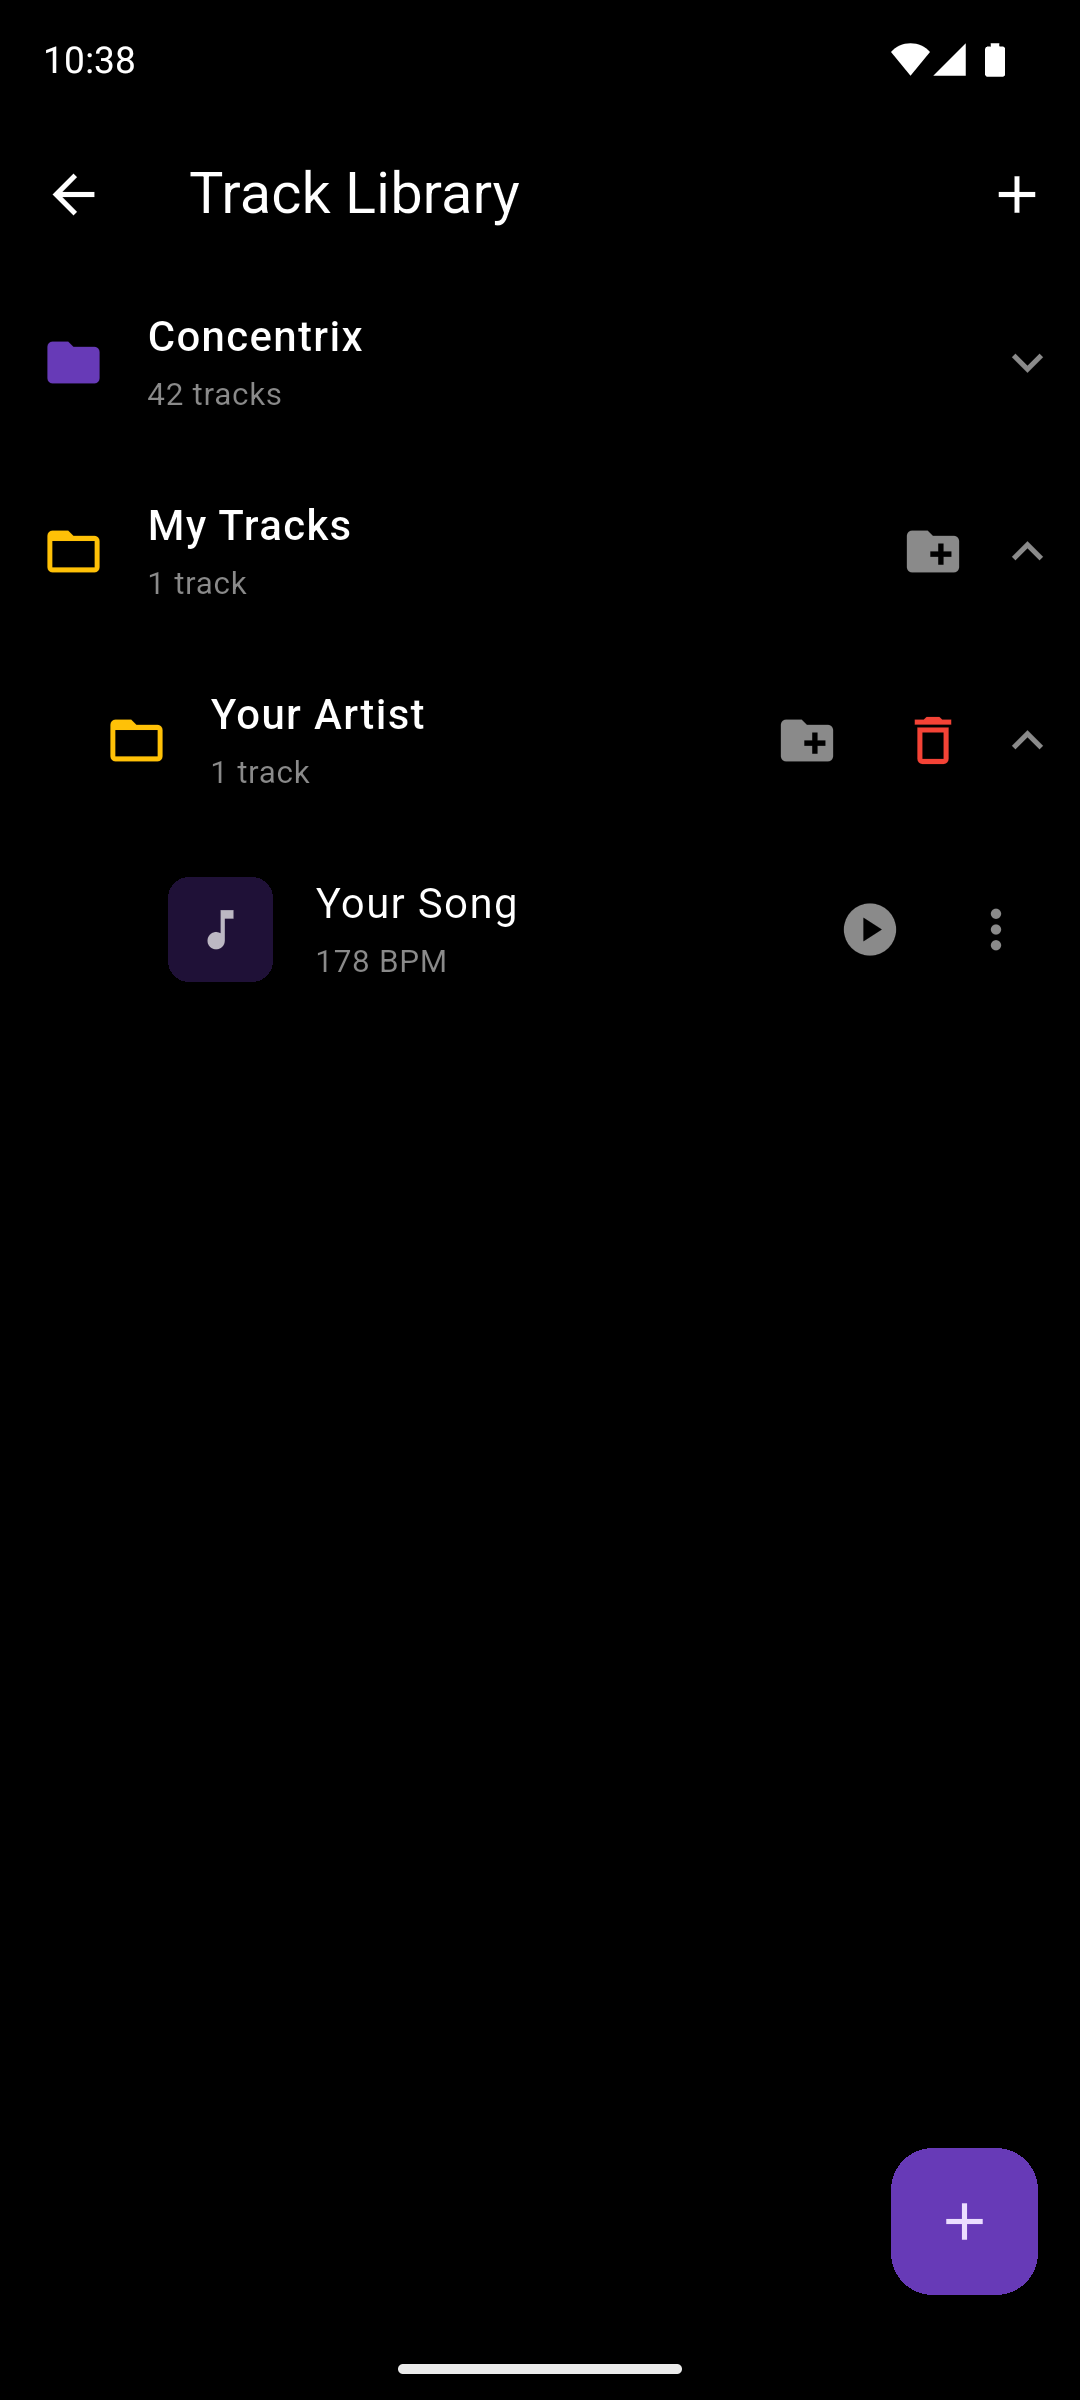
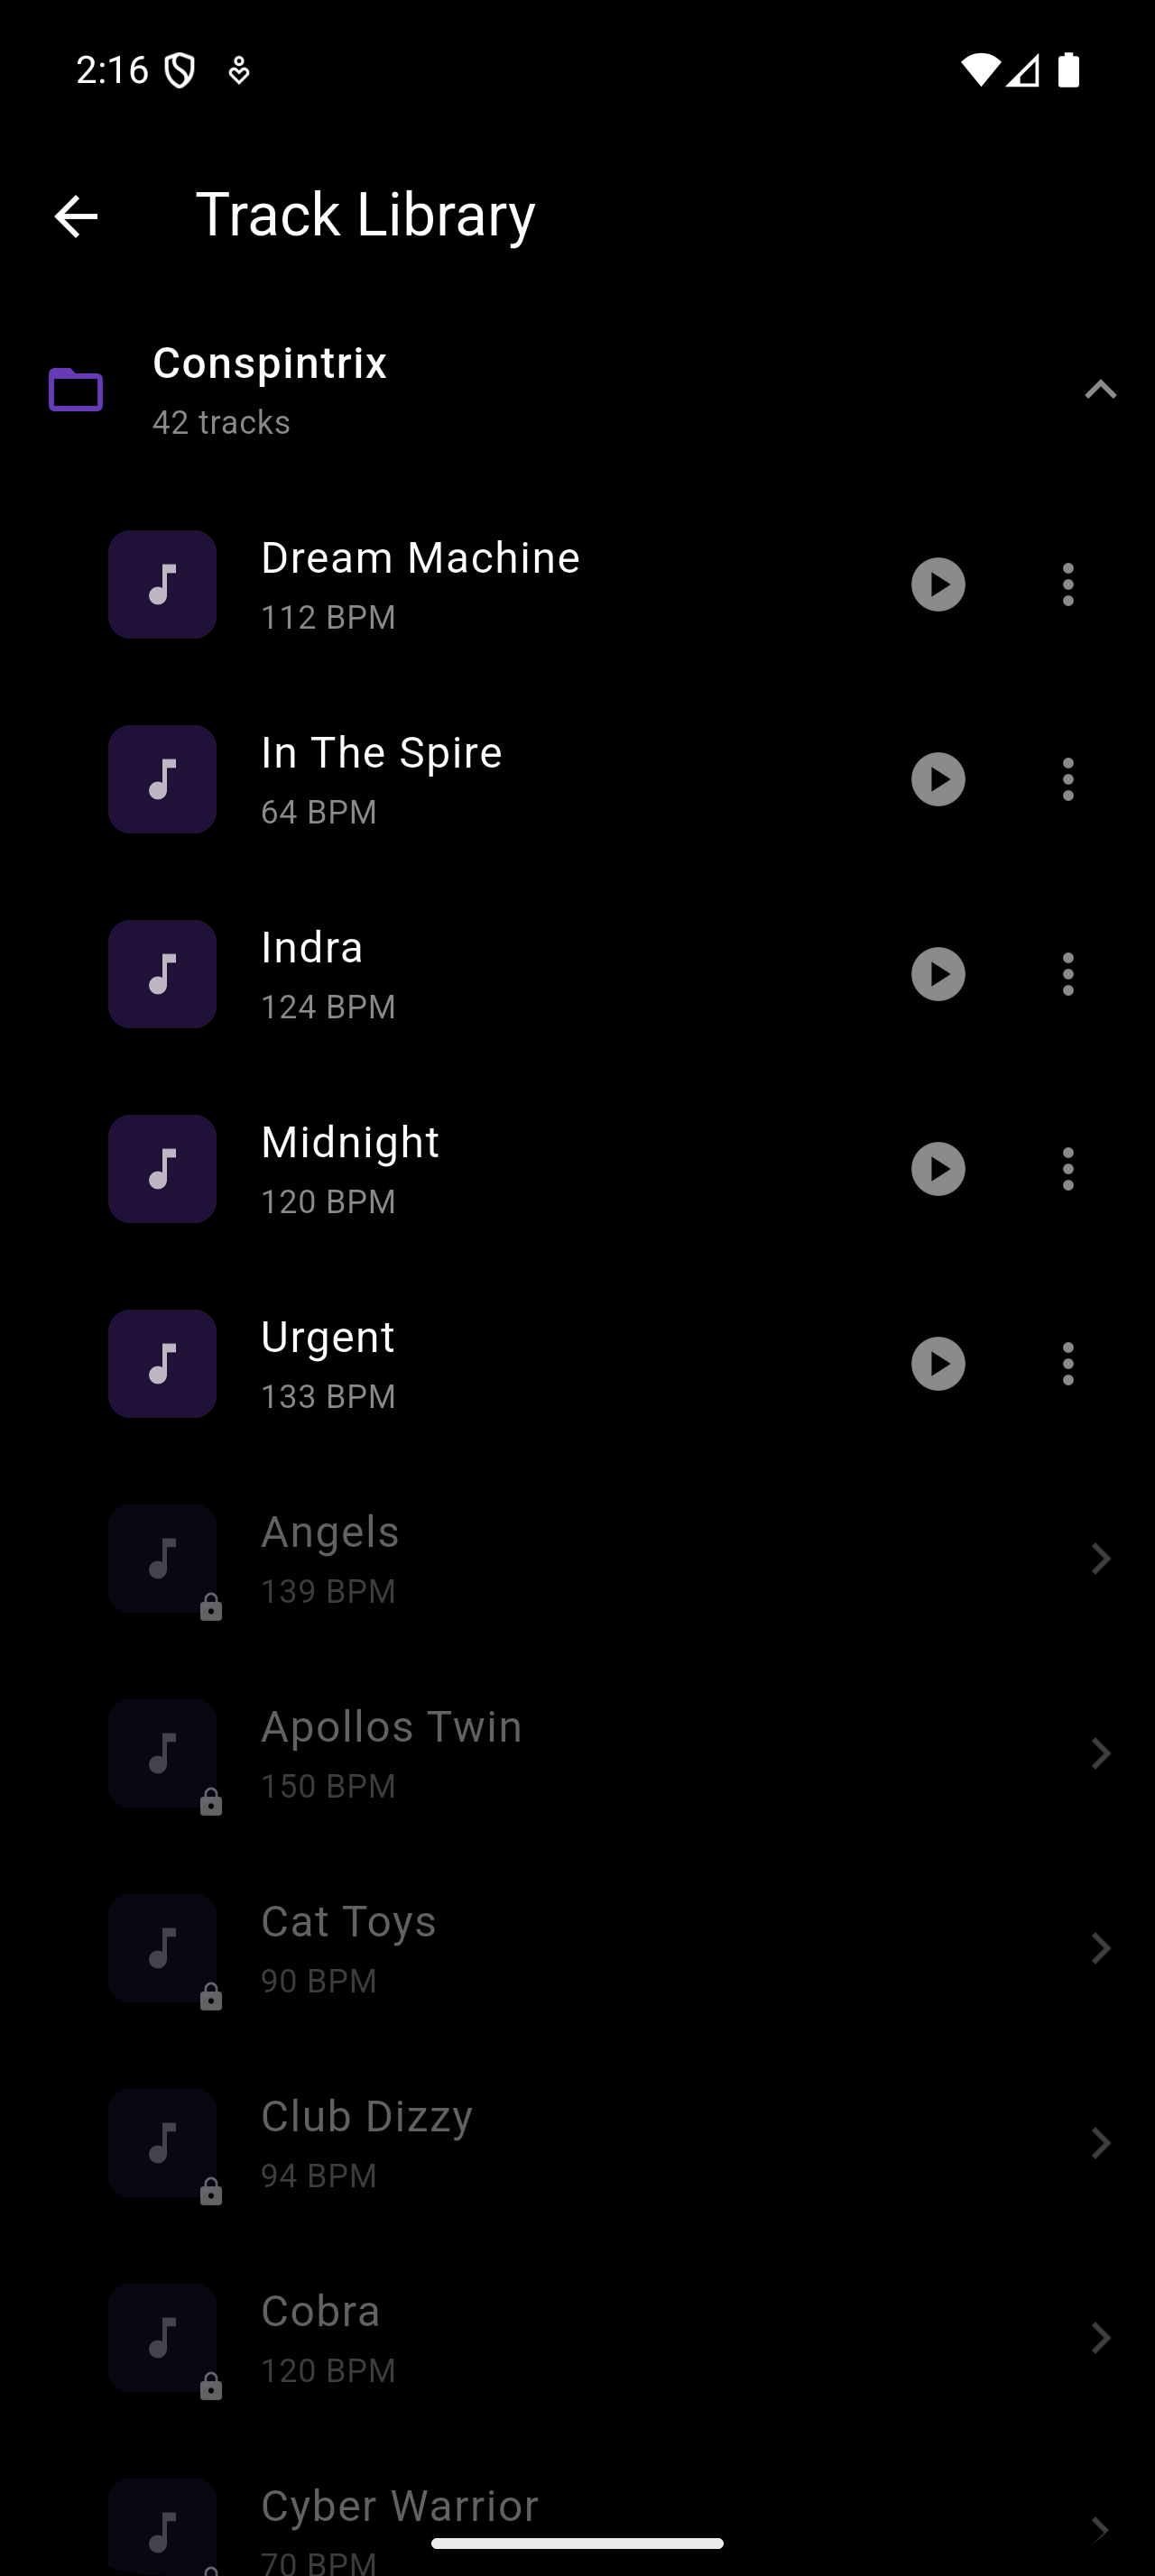
Updated branding

diff --git a/conspintrix/index.html b/conspintrix/index.html
@@ -5,26 +5,26 @@
   <meta name="viewport" content="width=device-width, initial-scale=1.0" />
 
   <!-- ── Primary Meta ── -->
-  <title>Concentrix | butterssoft</title>
-  <meta name="description" content="Concentrix is a music-driven puzzle game where every move is in sync with the beat. Spin concentric rings to match color patterns before the track ends — available on Android, iOS coming soon." />
-  <meta name="keywords" content="Concentrix, butterssoft, music puzzle game, rhythm game, mobile game, Android, iOS" />
+  <title>Conspintrix | butterssoft</title>
+  <meta name="description" content="Conspintrix is a music-driven puzzle game where every move is in sync with the beat. Spin concentric rings to match color patterns before the track ends — available on Android, iOS coming soon." />
+  <meta name="keywords" content="Conspintrix, butterssoft, music puzzle game, rhythm game, mobile game, Android, iOS" />
   <meta name="author" content="butterssoft" />
-  <link rel="canonical" href="https://butterssoft.com/concentrix/" />
+  <link rel="canonical" href="https://butterssoft.com/conspintrix/" />
 
   <!-- ── Open Graph ── -->
   <meta property="og:type" content="website" />
-  <meta property="og:url" content="https://butterssoft.com/concentrix/" />
-  <meta property="og:title" content="Concentrix | butterssoft" />
-  <meta property="og:description" content="Concentrix is a music-driven puzzle game where every move is in sync with the beat. Spin concentric rings to match color patterns before the track ends — available on Android, iOS coming soon." />
-  <meta property="og:image" content="https://butterssoft.com/assets/images/concentrix.png" />
+  <meta property="og:url" content="https://butterssoft.com/conspintrix/" />
+  <meta property="og:title" content="Conspintrix | butterssoft" />
+  <meta property="og:description" content="Conspintrix is a music-driven puzzle game where every move is in sync with the beat. Spin concentric rings to match color patterns before the track ends — available on Android, iOS coming soon." />
+  <meta property="og:image" content="https://butterssoft.com/assets/images/conspintrix.png" />
   <meta property="og:site_name" content="butterssoft" />
   <meta property="og:locale" content="en_US" />
 
   <!-- ── Twitter Card ── -->
   <meta name="twitter:card" content="summary_large_image" />
-  <meta name="twitter:title" content="Concentrix | butterssoft" />
-  <meta name="twitter:description" content="Concentrix is a music-driven puzzle game where every move is in sync with the beat. Spin concentric rings to match color patterns before the track ends — available on Android, iOS coming soon." />
-  <meta name="twitter:image" content="https://butterssoft.com/assets/images/concentrix.png" />
+  <meta name="twitter:title" content="Conspintrix | butterssoft" />
+  <meta name="twitter:description" content="Conspintrix is a music-driven puzzle game where every move is in sync with the beat. Spin concentric rings to match color patterns before the track ends — available on Android, iOS coming soon." />
+  <meta name="twitter:image" content="https://butterssoft.com/assets/images/conspintrix.png" />
 
   <!-- ── Favicon ── -->
   <link rel="icon" type="image/png" href="../assets/images/butterssoft.png" />
@@ -42,13 +42,13 @@
   {
     "@context": "https://schema.org",
     "@type": "VideoGame",
-    "name": "Concentrix",
-    "description": "Concentrix is a music-driven puzzle game where every move is in sync with the beat. Spin concentric rings to match color patterns before the track ends; the challenge adapts to whatever music you choose.",
+    "name": "Conspintrix",
+    "description": "Conspintrix is a music-driven puzzle game where every move is in sync with the beat. Spin concentric rings to match color patterns before the track ends; the challenge adapts to whatever music you choose.",
     "publisher": { "@type": "Organization", "name": "butterssoft", "url": "https://butterssoft.com" },
     "operatingSystem": ["Android"],
     "applicationCategory": "Game",
-    "image": "https://butterssoft.com/assets/images/concentrix.png",
-    "url": "https://butterssoft.com/concentrix/"
+    "image": "https://butterssoft.com/assets/images/conspintrix.png",
+    "url": "https://butterssoft.com/conspintrix/"
   }
   </script>
 </head>
@@ -74,14 +74,14 @@
     <section class="game-page-hero" aria-labelledby="game-page-title">
       <div class="hero-video-bg" aria-hidden="true">
         <video class="hero-video" autoplay muted loop playsinline>
-          <source src="../assets/videos/concentrix-bg.mp4" type="video/mp4">
+          <source src="../assets/videos/conspintrix-bg.mp4" type="video/mp4">
         </video>
         <div class="hero-video-overlay"></div>
       </div>
       <div class="container game-page-hero-inner">
         <p class="breadcrumb"><a href="/">butterssoft</a> / Games</p>
-        <img src="../assets/images/concentrix.png" alt="Concentrix app icon" class="game-page-icon" />
-        <h1 style="font-family:audiowide" id="game-page-title">CONCENTRIX</h1>
+        <img src="../assets/images/conspintrix.png" alt="Conspintrix app icon" class="game-page-icon" />
+        <h1 style="font-family:audiowide" id="game-page-title">CONSPINTRIX</h1>
         <p class="game-page-tagline">A music-driven puzzle game where every move is in sync with the beat.</p>
         <div class="game-badges">
           <span class="badge badge-platform">Android</span>
@@ -101,7 +101,7 @@
         <div class="video-wrapper">
           <iframe
             src="https://www.youtube.com/embed/omtn6ThmDZ8"
-            title="Concentrix gameplay video"
+            title="Conspintrix gameplay video"
             allow="accelerometer; autoplay; clipboard-write; encrypted-media; gyroscope; picture-in-picture"
             allowfullscreen>
           </iframe>
@@ -114,7 +114,7 @@
       <div class="container">
         <div class="game-about-inner">
           <h2 class="section-title" id="about-heading">About the Game</h2>
-          <p>Concentrix is a music-driven puzzle game where every move is in sync with the beat. Spin concentric rings to match color patterns before the track ends or chase the highest score across every loop.</p>
+          <p>Conspintrix is a music-driven puzzle game where every move is in sync with the beat. Spin concentric rings to match color patterns before the track ends or chase the highest score across every loop.</p>
           <p>The challenge is based on whatever music you choose, making every session feel different. Free to play with no ads, and 5 full tracks across all modes and difficulties. Unlock 35+ tracks and import your own music library with a one-time premium purchase.</p>
 
           <h3 class="modes-heading">Two ways to play</h3>
@@ -138,7 +138,7 @@
     </section>
 
     <!-- ── What Makes It Different ── -->
-    <section class="game-page-section" id="why-concentrix" aria-labelledby="why-heading">
+    <section class="game-page-section" id="why-conspintrix" aria-labelledby="why-heading">
       <div class="container">
         <h2 class="section-title" id="why-heading">What Makes It Different</h2>
         <div class="differentiators-grid">
@@ -163,14 +163,14 @@
       <div class="container">
         <div class="screenshots-header">
           <h2 class="section-title" id="screenshots-heading">Screenshots</h2>
-          <a class="btn btn-sm btn-outline" href="../assets/images/concentrix-press-assets.zip" download>Download Press Assets</a>
+          <a class="btn btn-sm btn-outline" href="../assets/images/conspintrix-press-assets.zip" download>Download Press Assets</a>
         </div>
         <div class="screenshots-grid">
-          <img src="../assets/images/titlescreen.png" alt="Concentrix title screen" />
-          <img src="../assets/images/solvemode.png" alt="Concentrix solve mode gameplay" />
-          <img src="../assets/images/scoremode.png" alt="Concentrix score mode gameplay" />
-          <img src="../assets/images/customtracks.png" alt="Concentrix custom tracks screen" />
-          <img src="../assets/images/tempotap.png" alt="Concentrix tempo tap screen" />
+          <img src="../assets/images/titlescreen.png" alt="Conspintrix title screen" />
+          <img src="../assets/images/solvemode.png" alt="Conspintrix solve mode gameplay" />
+          <img src="../assets/images/scoremode.png" alt="Conspintrix score mode gameplay" />
+          <img src="../assets/images/customtracks.png" alt="Conspintrix custom tracks screen" />
+          <img src="../assets/images/tempotap.png" alt="Conspintrix tempo tap screen" />
         </div>
       </div>
     </section>
@@ -184,15 +184,15 @@
           <h3>Copy-Ready Descriptions</h3>
           <div class="press-desc-block">
             <p class="press-desc-label">Short</p>
-            <blockquote class="press-desc-text">Concentrix is a music-driven puzzle game where every move is in sync with the beat. Spin concentric rings to match color patterns before the track ends; the challenge adapts to whatever music you choose, so every session feels different.</blockquote>
+            <blockquote class="press-desc-text">Conspintrix is a music-driven puzzle game where every move is in sync with the beat. Spin concentric rings to match color patterns before the track ends; the challenge adapts to whatever music you choose, so every session feels different.</blockquote>
           </div>
           <div class="press-desc-block">
             <p class="press-desc-label">Long</p>
-            <blockquote class="press-desc-text">Concentrix is a music-driven puzzle game where every move is in sync with the beat.<br><br>Spin concentric rings to match color patterns before the track ends or chase the highest score across every loop. The challenge is based on whatever music you choose, making every session feel different. Free to play with no ads, and 5 full tracks across all modes and difficulties. Unlock 35+ tracks and import your own music library with a one-time premium purchase.<br><br>Two ways to play: Solve (clear the board as many times as you can before the track finishes) or Score (maximize your points across multiple loops). Three difficulty levels with separate leaderboards, beat-synced animations and haptic feedback, and high score tracking across every track, mode, and difficulty. Simple to pick up, endlessly replayable.</blockquote>
+            <blockquote class="press-desc-text">Conspintrix is a music-driven puzzle game where every move is in sync with the beat.<br><br>Spin concentric rings to match color patterns before the track ends or chase the highest score across every loop. The challenge is based on whatever music you choose, making every session feel different. Free to play with no ads, and 5 full tracks across all modes and difficulties. Unlock 35+ tracks and import your own music library with a one-time premium purchase.<br><br>Two ways to play: Solve (clear the board as many times as you can before the track finishes) or Score (maximize your points across multiple loops). Three difficulty levels with separate leaderboards, beat-synced animations and haptic feedback, and high score tracking across every track, mode, and difficulty. Simple to pick up, endlessly replayable.</blockquote>
           </div>
           <div class="press-desc-block">
             <p class="press-desc-label">About butterssoft</p>
-            <blockquote class="press-desc-text">Formed as a solo indie game developer in Den Haag, Netherlands, butterssoft makes games with unique mechanics or takes an established genre and puts an interesting twist on it. Concentrix is the first release with a few more puzzle based games soon to come, and after that some parody games that aim to make players laugh.</blockquote>
+            <blockquote class="press-desc-text">Formed as a solo indie game developer in Den Haag, Netherlands, butterssoft makes games with unique mechanics or takes an established genre and puts an interesting twist on it. Conspintrix is the first release with a few more puzzle based games soon to come, and after that some parody games that aim to make players laugh.</blockquote>
           </div>
         </div>
 
@@ -204,7 +204,7 @@
               <tbody>
                 <tr>
                   <td>Title</td>
-                  <td>Concentrix</td>
+                  <td>Conspintrix</td>
                 </tr>
                 <tr>
                   <td>Trailer</td>
@@ -236,7 +236,7 @@
                 </tr>
                 <tr>
                   <td>Website</td>
-                  <td><a href="https://butterssoft.com/concentrix/">butterssoft.com/concentrix</a></td>
+                  <td><a href="https://butterssoft.com/conspintrix/">butterssoft.com/conspintrix</a></td>
                 </tr>
                 <tr>
                   <td>Languages</td>
@@ -244,11 +244,11 @@
                 </tr>
                 <tr>
                   <td>Privacy Policy</td>
-                  <td><a href="../privacy-concentrix.html">View Privacy Policy</a></td>
+                  <td><a href="../privacy-conspintrix.html">View Privacy Policy</a></td>
                 </tr>
                 <tr>
                   <td>Terms of Service</td>
-                  <td><a href="../terms-concentrix.html">View Terms of Service</a></td>
+                  <td><a href="../terms-conspintrix.html">View Terms of Service</a></td>
                 </tr>
               </tbody>
             </table>
@@ -261,8 +261,8 @@
               <p>We aim to respond within 2 business days.</p>
             </div>
             <div class="press-actions">
-              <a class="btn" href="mailto:[email redacted]?subject=Press%20Inquiry%20%E2%80%94%20Concentrix">Email Press Contact</a>
-              <a class="btn btn-outline" href="mailto:[email redacted]?subject=Press%20Asset%20Request%20%E2%80%94%20Concentrix">Request Press Assets</a>
+              <a class="btn" href="mailto:[email redacted]?subject=Press%20Inquiry%20%E2%80%94%20Conspintrix">Email Press Contact</a>
+              <a class="btn btn-outline" href="mailto:[email redacted]?subject=Press%20Asset%20Request%20%E2%80%94%20Conspintrix">Request Press Assets</a>
             </div>
           </div>
 
@@ -279,8 +279,8 @@
         <span>butterssoft</span>
       </a>
       <nav class="footer-legal" aria-label="Legal links">
-        <a href="../privacy-concentrix.html">Privacy Policy</a>
-        <a href="../terms-concentrix.html">Terms of Service</a>
+        <a href="../privacy-conspintrix.html">Privacy Policy</a>
+        <a href="../terms-conspintrix.html">Terms of Service</a>
       </nav>
       <span class="footer-copy">&copy; <span id="year"></span> butterssoft. All rights reserved.</span>
     </div>

diff --git a/index.html b/index.html
@@ -6,8 +6,8 @@
 
   <!-- ── Primary Meta ── -->
   <title>butterssoft | Indie Mobile Game Studio</title>
-  <meta name="description" content="butterssoft is an indie game studio crafting polished mobile games. Check out Zerosion and Concentrix — available soon on iOS and Android." />
-  <meta name="keywords" content="butterssoft, indie game studio, mobile games, Zerosion, Concentrix, iOS games, Android games" />
+  <meta name="description" content="butterssoft is an indie game studio crafting polished mobile games. Check out Zerosion and Conspintrix — available soon on iOS and Android." />
+  <meta name="keywords" content="butterssoft, indie game studio, mobile games, Zerosion, Conspintrix, iOS games, Android games" />
   <meta name="author" content="butterssoft" />
   <link rel="canonical" href="https://butterssoft.com/" />
 
@@ -15,7 +15,7 @@
   <meta property="og:type" content="website" />
   <meta property="og:url" content="https://butterssoft.com/" />
   <meta property="og:title" content="butterssoft | Indie Mobile Game Studio" />
-  <meta property="og:description" content="butterssoft is an indie game studio crafting polished mobile games. Check out Zerosion and Concentrix — available soon on iOS and Android." />
+  <meta property="og:description" content="butterssoft is an indie game studio crafting polished mobile games. Check out Zerosion and Conspintrix — available soon on iOS and Android." />
   <meta property="og:image" content="https://butterssoft.com/assets/images/butterssoft.png" />
   <meta property="og:site_name" content="butterssoft" />
   <meta property="og:locale" content="en_US" />
@@ -23,7 +23,7 @@
   <!-- ── Twitter Card ── -->
   <meta name="twitter:card" content="summary_large_image" />
   <meta name="twitter:title" content="butterssoft | Indie Mobile Game Studio" />
-  <meta name="twitter:description" content="butterssoft is an indie game studio crafting polished mobile games. Check out Zerosion and Concentrix — available soon on iOS and Android." />
+  <meta name="twitter:description" content="butterssoft is an indie game studio crafting polished mobile games. Check out Zerosion and Conspintrix — available soon on iOS and Android." />
   <meta name="twitter:image" content="https://butterssoft.com/assets/images/butterssoft.png" />
 
   <!-- ── Favicon ── -->
@@ -65,12 +65,12 @@
       },
       {
         "@type": "VideoGame",
-        "name": "Concentrix",
+        "name": "Conspintrix",
         "description": "A rhythm based mobile game by butterssoft.",
         "publisher": { "@type": "Organization", "name": "butterssoft" },
         "operatingSystem": ["iOS", "Android"],
         "applicationCategory": "Game",
-        "image": "https://butterssoft.com/assets/images/concentrix.png"
+        "image": "https://butterssoft.com/assets/images/conspintrix.png"
       }
     ]
   }
@@ -111,12 +111,12 @@
           <h3 class="subsection-label">Available Soon</h3>
           <div class="games-grid">
 
-            <article class="game-card" aria-label="Concentrix">
+            <article class="game-card" aria-label="Conspintrix">
               <div class="game-card-img-wrap game-icon-wrap">
-                <img src="assets/images/concentrix.png" alt="Concentrix app icon" class="game-icon" />
+                <img src="assets/images/conspintrix.png" alt="Conspintrix app icon" class="game-icon" />
               </div>
               <div class="game-card-body">
-                <h4 class="game-title">Concentrix</h4>
+                <h4 class="game-title">Conspintrix</h4>
                 <p class="game-desc">Now available on Android. iOS coming soon.</p>
                 <div class="game-badges">
                   <span class="badge badge-platform">Android</span>
@@ -124,7 +124,7 @@
                 </div>
                 <div class="game-links">
                   <a class="btn btn-sm" href="https://play.google.com/store/apps/details?id=com.butterssoft.concentrix" target="_blank" rel="noopener">Google Play</a>
-                  <a class="btn btn-sm btn-outline" href="/concentrix/">Learn More</a>
+                  <a class="btn btn-sm btn-outline" href="/conspintrix/">Learn More</a>
                 </div>
               </div>
             </article>
@@ -194,8 +194,8 @@
       <nav class="footer-legal" aria-label="Legal links">
         <a href="privacy-zerosion.html">Zerosion Privacy</a>
         <a href="terms-zerosion.html">Zerosion Terms</a>
-        <a href="privacy-concentrix.html">Concentrix Privacy</a>
-        <a href="terms-concentrix.html">Concentrix Terms</a>
+        <a href="privacy-conspintrix.html">Conspintrix Privacy</a>
+        <a href="terms-conspintrix.html">Conspintrix Terms</a>
       </nav>
       <span class="footer-copy">&copy; <span id="year"></span> butterssoft. All rights reserved.</span>
     </div>

diff --git a/privacy-conspintrix.html b/privacy-conspintrix.html
@@ -3,10 +3,10 @@
 <head>
   <meta charset="UTF-8" />
   <meta name="viewport" content="width=device-width, initial-scale=1.0" />
-  <title>Privacy Policy – Concentrix | butterssoft</title>
-  <meta name="description" content="Privacy policy for Concentrix by butterssoft." />
+  <title>Privacy Policy – Conspintrix | butterssoft</title>
+  <meta name="description" content="Privacy policy for Conspintrix by butterssoft." />
   <meta name="robots" content="index, follow" />
-  <link rel="canonical" href="https://butterssoft.com/privacy-concentrix.html" />
+  <link rel="canonical" href="https://butterssoft.com/privacy-conspintrix.html" />
   <link rel="icon" type="image/png" href="assets/images/butterssoft.png" />
   <link rel="preconnect" href="https://fonts.googleapis.com" />
   <link rel="preconnect" href="https://fonts.gstatic.com" crossorigin />
@@ -34,8 +34,8 @@
     <div class="legal-hero">
       <div class="container">
         <div class="legal-game-label">
-          <img src="assets/images/concentrix.png" alt="Concentrix icon" class="legal-game-icon" />
-          <span>Concentrix</span>
+          <img src="assets/images/conspintrix.png" alt="Conspintrix icon" class="legal-game-icon" />
+          <span>Conspintrix</span>
         </div>
         <h1 class="legal-title">Privacy Policy</h1>
         <p class="legal-meta">Last updated: <time datetime="2026-06-15">June 15, 2026</time></p>
@@ -45,7 +45,7 @@
     <article class="legal-body container">
 
       <section class="legal-section">
-        <p>This privacy policy explains what information Concentrix ("the app") collects, how it is used, and your rights regarding that information. We take your privacy seriously and collect only what is necessary to operate the app's features.</p>
+        <p>This privacy policy explains what information Conspintrix ("the app") collects, how it is used, and your rights regarding that information. We take your privacy seriously and collect only what is necessary to operate the app's features.</p>
       </section>
 
       <section class="legal-section">
@@ -126,8 +126,8 @@
       <nav class="footer-legal" aria-label="Legal links">
         <a href="privacy-zerosion.html">Zerosion Privacy</a>
         <a href="terms-zerosion.html">Zerosion Terms</a>
-        <a href="privacy-concentrix.html">Concentrix Privacy</a>
-        <a href="terms-concentrix.html">Concentrix Terms</a>
+        <a href="privacy-conspintrix.html">Conspintrix Privacy</a>
+        <a href="terms-conspintrix.html">Conspintrix Terms</a>
       </nav>
       <span class="footer-copy">&copy; <span class="year"></span> butterssoft. All rights reserved.</span>
     </div>

diff --git a/terms-conspintrix.html b/terms-conspintrix.html
@@ -3,10 +3,10 @@
 <head>
   <meta charset="UTF-8" />
   <meta name="viewport" content="width=device-width, initial-scale=1.0" />
-  <title>Terms &amp; Conditions – Concentrix | butterssoft</title>
-  <meta name="description" content="Terms and conditions for Concentrix by butterssoft." />
+  <title>Terms &amp; Conditions – Conspintrix | butterssoft</title>
+  <meta name="description" content="Terms and conditions for Conspintrix by butterssoft." />
   <meta name="robots" content="index, follow" />
-  <link rel="canonical" href="https://butterssoft.com/terms-concentrix.html" />
+  <link rel="canonical" href="https://butterssoft.com/terms-conspintrix.html" />
   <link rel="icon" type="image/png" href="assets/images/butterssoft.png" />
   <link rel="preconnect" href="https://fonts.googleapis.com" />
   <link rel="preconnect" href="https://fonts.gstatic.com" crossorigin />
@@ -34,8 +34,8 @@
     <div class="legal-hero">
       <div class="container">
         <div class="legal-game-label">
-          <img src="assets/images/concentrix.png" alt="Concentrix icon" class="legal-game-icon" />
-          <span>Concentrix</span>
+          <img src="assets/images/conspintrix.png" alt="Conspintrix icon" class="legal-game-icon" />
+          <span>Conspintrix</span>
         </div>
         <h1 class="legal-title">Terms &amp; Conditions</h1>
         <p class="legal-meta">Effective: <time datetime="2026-05-05">May 5, 2026</time></p>
@@ -46,7 +46,7 @@
 
       <section class="legal-section">
         <h2>Introduction</h2>
-        <p>These terms and conditions apply to the Concentrix app (hereby referred to as "Application") for mobile devices that was created by butterssoft (hereby referred to as "Service Provider") as a free to use service.</p>
+        <p>These terms and conditions apply to the Conspintrix app (hereby referred to as "Application") for mobile devices that was created by butterssoft (hereby referred to as "Service Provider") as a free to use service.</p>
         <p>Upon downloading or utilizing the Application, you are automatically agreeing to the following terms. It is strongly advised that you thoroughly read and understand these terms prior to using the Application.</p>
       </section>
 
@@ -118,8 +118,8 @@
       <nav class="footer-legal" aria-label="Legal links">
         <a href="privacy-zerosion.html">Zerosion Privacy</a>
         <a href="terms-zerosion.html">Zerosion Terms</a>
-        <a href="privacy-concentrix.html">Concentrix Privacy</a>
-        <a href="terms-concentrix.html">Concentrix Terms</a>
+        <a href="privacy-conspintrix.html">Conspintrix Privacy</a>
+        <a href="terms-conspintrix.html">Conspintrix Terms</a>
       </nav>
       <span class="footer-copy">&copy; <span class="year"></span> butterssoft. All rights reserved.</span>
     </div>

diff --git a/privacy-zerosion.html b/privacy-zerosion.html
@@ -134,8 +134,8 @@
       <nav class="footer-legal" aria-label="Legal links">
         <a href="privacy-zerosion.html">Zerosion Privacy</a>
         <a href="terms-zerosion.html">Zerosion Terms</a>
-        <a href="privacy-concentrix.html">Concentrix Privacy</a>
-        <a href="terms-concentrix.html">Concentrix Terms</a>
+        <a href="privacy-conspintrix.html">Conspintrix Privacy</a>
+        <a href="terms-conspintrix.html">Conspintrix Terms</a>
       </nav>
       <span class="footer-copy">&copy; <span class="year"></span> butterssoft. All rights reserved.</span>
     </div>

diff --git a/terms-zerosion.html b/terms-zerosion.html
@@ -119,8 +119,8 @@
       <nav class="footer-legal" aria-label="Legal links">
         <a href="privacy-zerosion.html">Zerosion Privacy</a>
         <a href="terms-zerosion.html">Zerosion Terms</a>
-        <a href="privacy-concentrix.html">Concentrix Privacy</a>
-        <a href="terms-concentrix.html">Concentrix Terms</a>
+        <a href="privacy-conspintrix.html">Conspintrix Privacy</a>
+        <a href="terms-conspintrix.html">Conspintrix Terms</a>
       </nav>
       <span class="footer-copy">&copy; <span class="year"></span> butterssoft. All rights reserved.</span>
     </div>

diff --git a/terms.html b/terms.html
@@ -109,8 +109,8 @@
       <nav class="footer-legal" aria-label="Legal links">
         <a href="privacy-zerosion.html">Zerosion Privacy</a>
         <a href="terms-zerosion.html">Zerosion Terms</a>
-        <a href="privacy-concentrix.html">Concentrix Privacy</a>
-        <a href="terms-concentrix.html">Concentrix Terms</a>
+        <a href="privacy-conspintrix.html">Conspintrix Privacy</a>
+        <a href="terms-conspintrix.html">Conspintrix Terms</a>
       </nav>
       <span class="footer-copy">&copy; <span class="year"></span> butterssoft. All rights reserved.</span>
     </div>